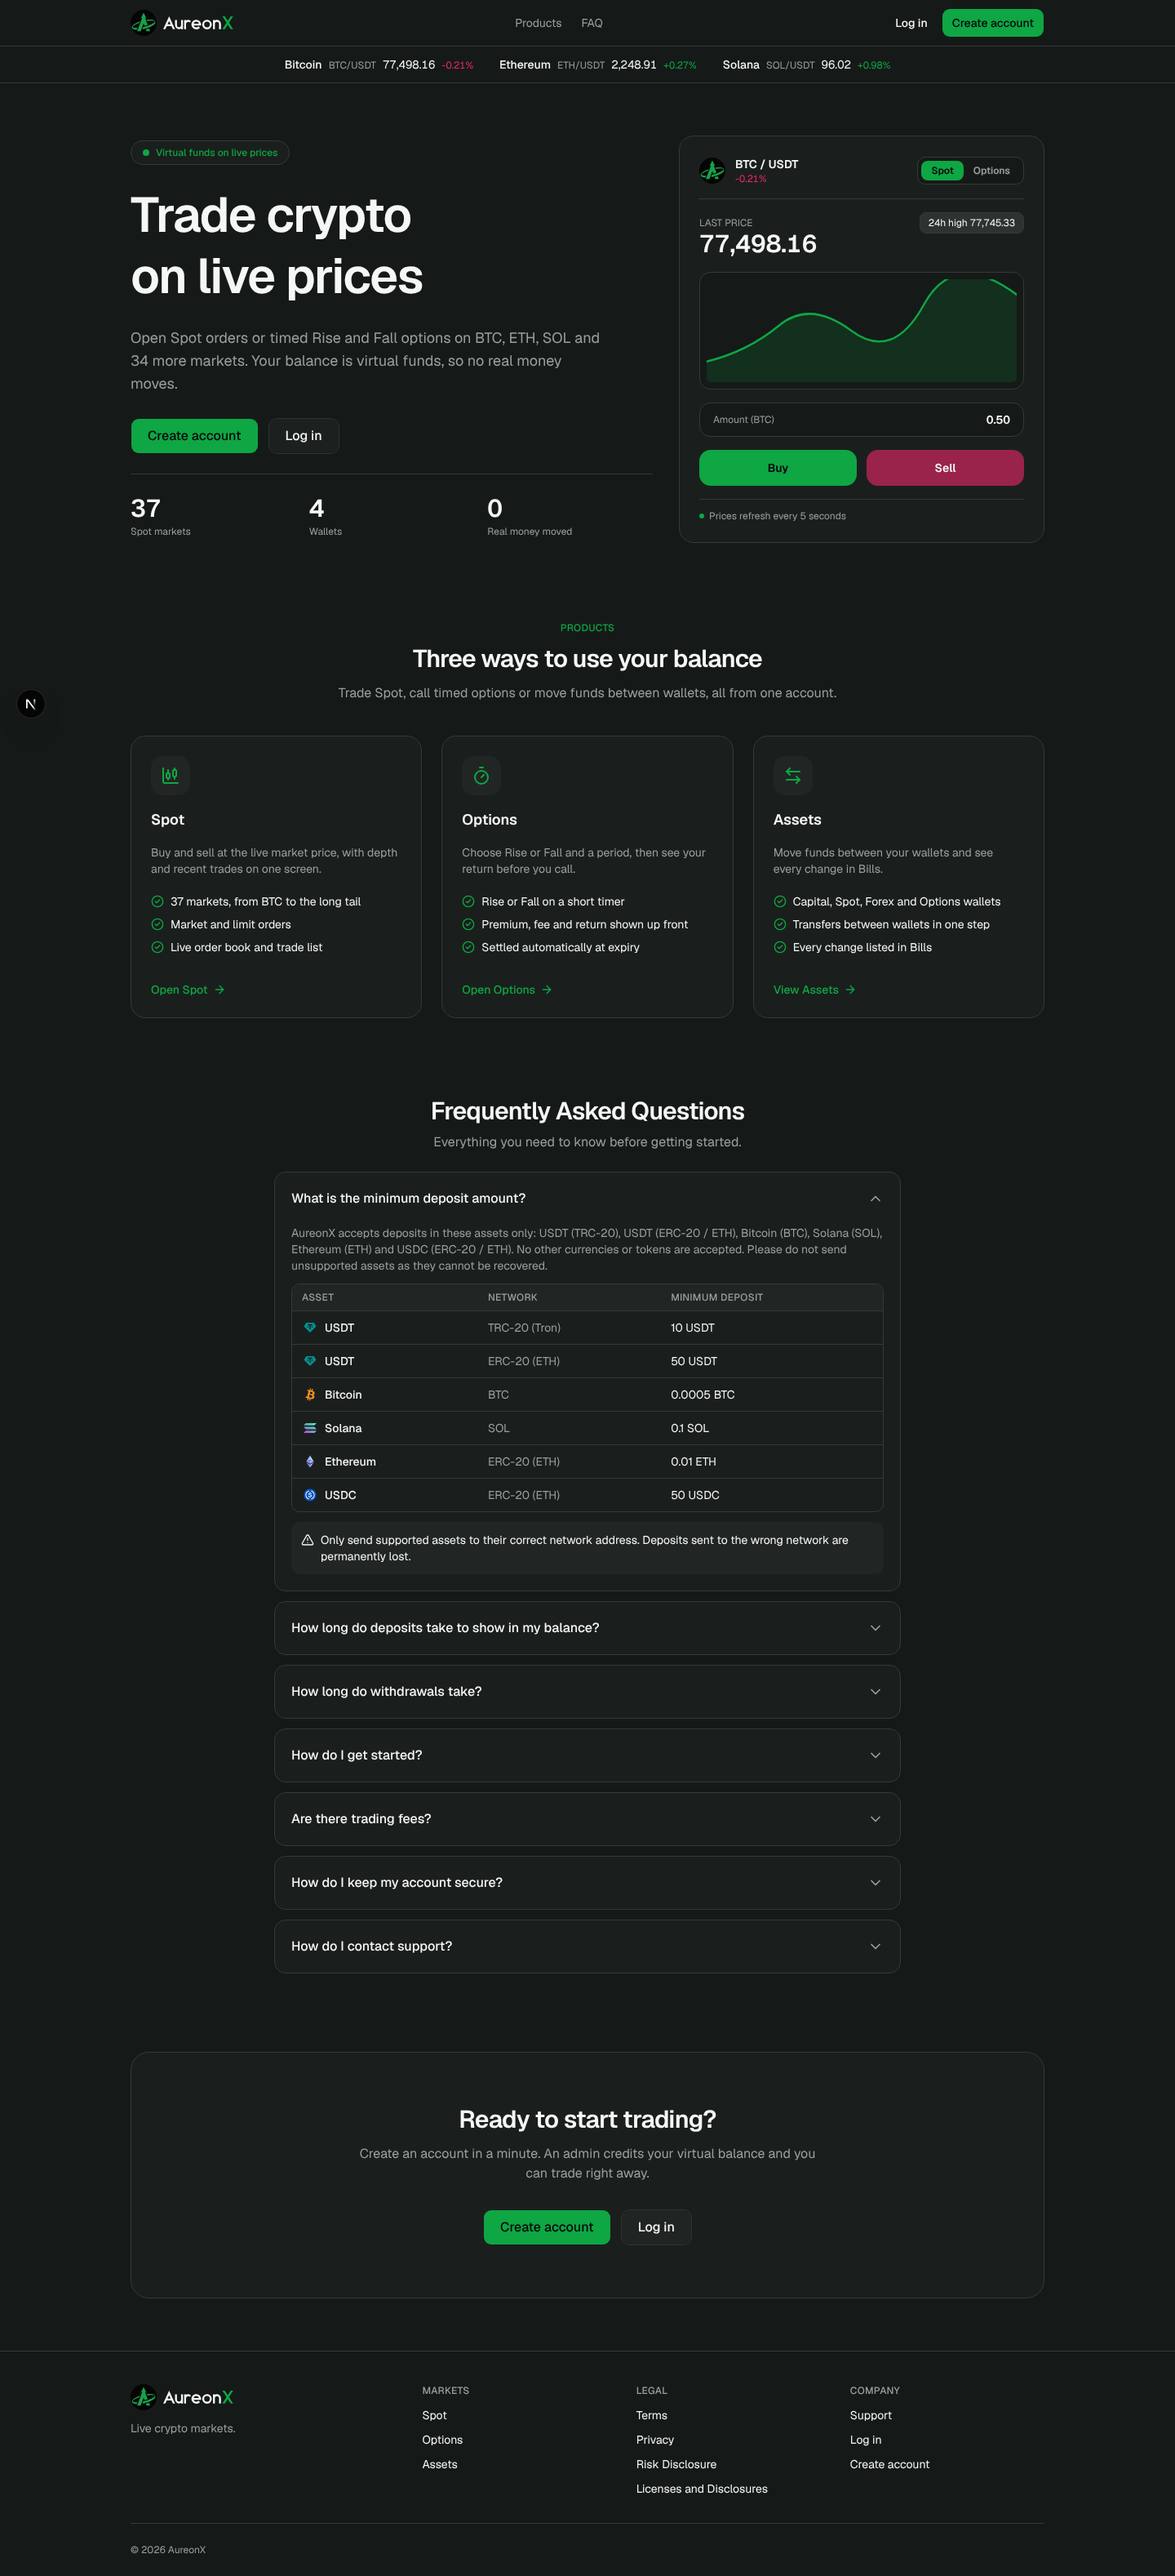
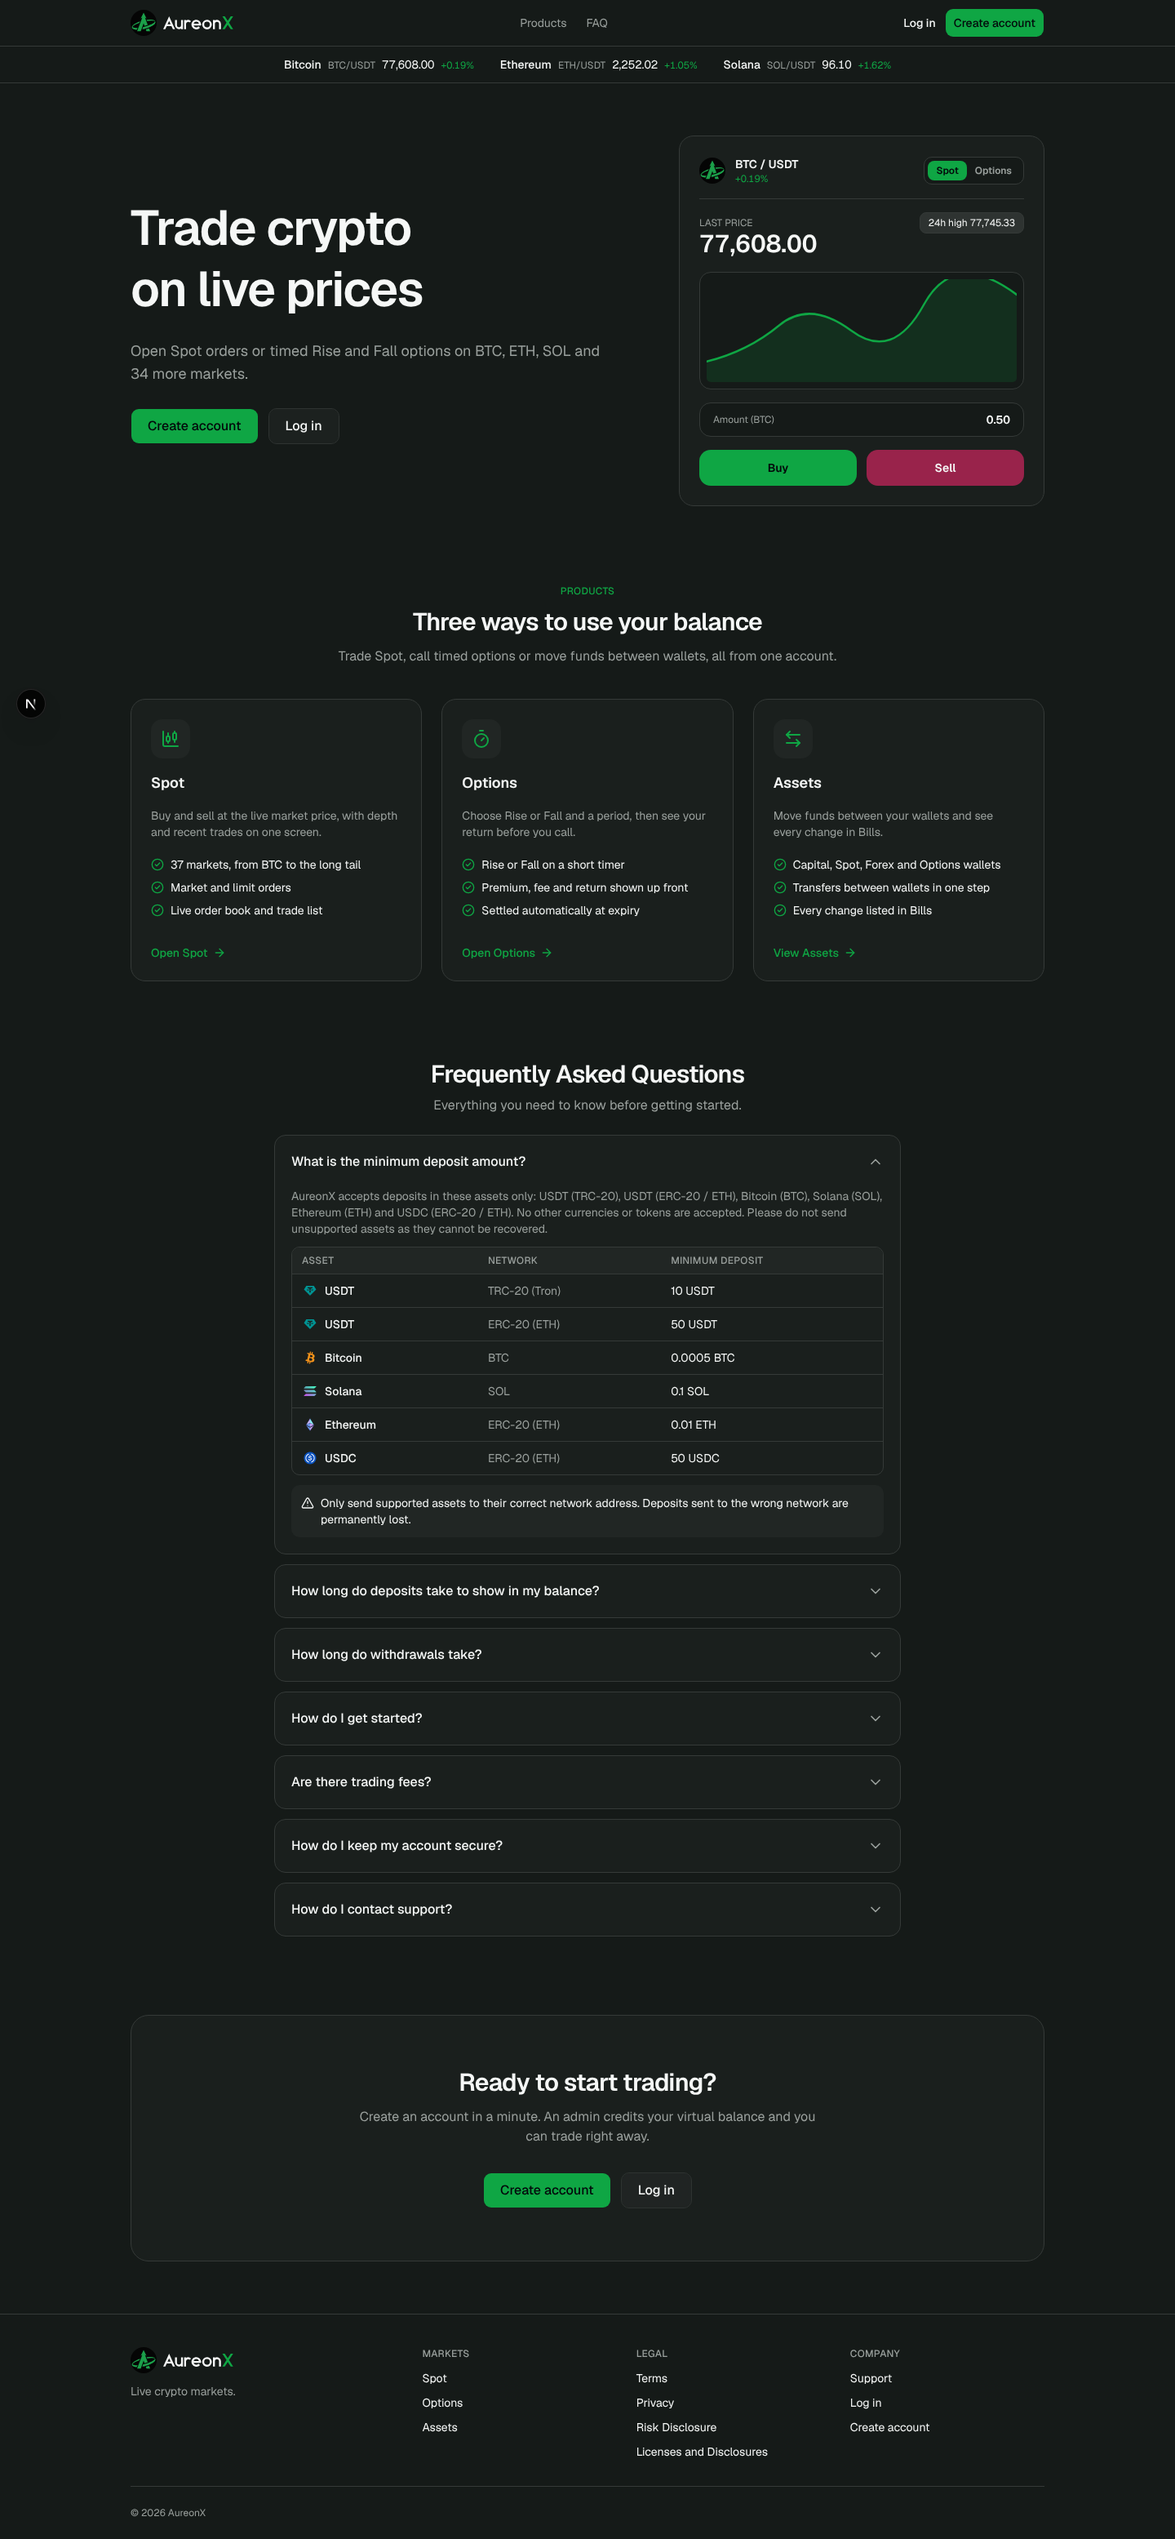
Trim the landing hero and the market table footnote, fit narrow screens
Claude-Session: https://claude.ai/code/session_01DkM5vfxF1t1ezHApxw2ZxV

diff --git a/src/components/landing/hero-preview.tsx b/src/components/landing/hero-preview.tsx
@@ -22,12 +22,12 @@ export function HeroPreview() {
   const change = live ? formatChange(live.ticker.changePct) : "--";
 
   return (
-    <div aria-hidden="true" className="rounded-2xl border bg-card p-5 md:p-6">
-      <div className="flex items-center justify-between border-b pb-4">
-        <div className="flex items-center gap-3">
+    <div aria-hidden="true" className="rounded-2xl border bg-card p-4 md:p-6">
+      <div className="flex items-center justify-between gap-2 border-b pb-4">
+        <div className="flex items-center gap-2 sm:gap-3">
           <BrandMark variant="small" idPrefix="preview" className="size-8" />
           <div>
-            <p className="text-sm font-semibold">BTC / USDT</p>
+            <p className="text-sm font-semibold whitespace-nowrap">BTC / USDT</p>
             <p
               className={cn(
                 "text-xs tabular-nums",
@@ -39,13 +39,13 @@ export function HeroPreview() {
           </div>
         </div>
         <div className="flex rounded-lg border bg-background p-1 text-xs font-semibold">
-          <span className="rounded-md bg-primary px-3 py-1 text-primary-foreground">{t("spot")}</span>
-          <span className="px-3 py-1 text-muted-foreground">{t("options")}</span>
+          <span className="rounded-md bg-primary px-2.5 py-1 text-primary-foreground">{t("spot")}</span>
+          <span className="px-2.5 py-1 text-muted-foreground">{t("options")}</span>
         </div>
       </div>
 
       <div className="mt-4 space-y-4">
-        <div className="flex items-baseline justify-between gap-3">
+        <div className="flex flex-wrap items-baseline justify-between gap-x-3 gap-y-2">
           <div>
             <p className="text-xs text-muted-foreground uppercase">{t("price")}</p>
             <p className="text-3xl font-semibold tabular-nums">
@@ -77,13 +77,6 @@ export function HeroPreview() {
           <span className="rounded-xl bg-primary py-3 text-center text-primary-foreground">{t("buy")}</span>
           <span className="rounded-xl bg-down/60 py-3 text-center">{t("sell")}</span>
         </div>
-      </div>
-
-      <div className="mt-4 flex items-center justify-between border-t pt-3 text-xs text-muted-foreground">
-        <span className="flex items-center gap-1.5">
-          <span className="size-1.5 rounded-full bg-primary" />
-          {t("feed")}
-        </span>
       </div>
     </div>
   );

diff --git a/src/app/(landing)/page.tsx b/src/app/(landing)/page.tsx
@@ -32,18 +32,13 @@ const FEATURES = [
 ] as const;
 
 const POINTS = ["one", "two", "three"] as const;
-const METRICS = ["markets", "wallets", "money"] as const;
 
 export default function LandingPage() {
   const t = useTranslations("Landing");
   return (
     <main className="mx-auto w-full max-w-6xl flex-1 space-y-16 px-4 py-10 md:space-y-24 md:py-16">
       <section className="grid items-center gap-10 lg:grid-cols-12 lg:gap-8">
-        <div className="space-y-6 text-center lg:col-span-7 lg:text-left">
-          <p className="inline-flex items-center gap-2 rounded-full border bg-card px-3.5 py-1.5 text-xs font-medium text-primary">
-            <span className="size-2 rounded-full bg-primary" />
-            {t("hero.badge")}
-          </p>
+        <div className="min-w-0 space-y-6 text-center lg:col-span-7 lg:text-left">
           <h1 className="text-4xl leading-tight font-semibold tracking-tight text-balance md:text-5xl xl:text-6xl">
             {t("hero.title")}
           </h1>
@@ -56,16 +51,8 @@ export default function LandingPage() {
               {t("hero.logIn")}
             </Link>
           </div>
-          <dl className="grid grid-cols-3 gap-4 border-t pt-6">
-            {METRICS.map((key) => (
-              <div key={key}>
-                <dt className="text-2xl font-semibold tabular-nums md:text-3xl">{t(`hero.metrics.${key}.value`)}</dt>
-                <dd className="mt-0.5 text-xs text-muted-foreground">{t(`hero.metrics.${key}.label`)}</dd>
-              </div>
-            ))}
-          </dl>
         </div>
-        <div className="lg:col-span-5">
+        <div className="mx-auto w-full min-w-0 max-w-md lg:col-span-5 lg:max-w-none">
           <HeroPreview />
         </div>
       </section>

diff --git a/src/components/landing/landing-nav.tsx b/src/components/landing/landing-nav.tsx
@@ -22,11 +22,11 @@ export function LandingNav() {
             {t("faq")}
           </a>
         </div>
-        <div className="flex items-center gap-1">
-          <Link href="/sign-in" className={cn(buttonVariants({ variant: "ghost" }), "h-9 px-3")}>
+        <div className="flex items-center">
+          <Link href="/sign-in" className={cn(buttonVariants({ variant: "ghost" }), "hidden h-9 px-2.5 min-[360px]:inline-flex")}>
             {t("logIn")}
           </Link>
-          <Link href="/sign-up" className={cn(buttonVariants(), "h-9 px-3")}>
+          <Link href="/sign-up" className={cn(buttonVariants(), "h-9 px-2.5")}>
             {t("createAccount")}
           </Link>
         </div>

diff --git a/src/components/market/market-table.tsx b/src/components/market/market-table.tsx
@@ -205,7 +205,6 @@ export function MarketTable({
           {t("seeAll")}
         </Link>
       ) : null}
-      <p className="text-center text-[11px] text-muted-foreground">{t("footnote")}</p>
     </section>
   );
 }

diff --git a/CLAUDE.md b/CLAUDE.md
@@ -22,7 +22,7 @@ This file is the single source of truth. It describes **what has shipped**, and 
   - `server.ts`: cookie-bound server client, `server-only`.
   - `service.ts`: secret-key client, `server-only`, never imported by client code.
 - Pages (static prerenders except `/admin/*`, which the admin layout renders per request; user data loads in client components):
-  - `(landing)` group (slice 9): `/` is the public landing page, with no tab bar and no top bar, and the default not-found. Layout, in order: nav (`landing-nav.tsx`: mark, wordmark, Products and FAQ anchors from `md:`, Log in, Create account), a live price strip (BTC, ETH, SOL from the shared market store, `--` while loading, missing or delayed), hero (`page.tsx`: badge, the one h1, CTAs, a three-figure strip, and `hero-preview.tsx`, a decorative Spot ticket whose price, 24 h change and 24 h high come from the same store and whose chart, amount and buttons are static), `#products` (three cards: Spot, Options, Assets, each with three points and a link), the FAQ (`#faq`), `cta-banner.tsx`, footer (Markets links to `/spot`, `/options`, `/assets`). Copy is in `messages/en.json` under `Landing`; the hero figures (37 markets, 4 wallets) and the Spot card's 37 are written in that copy, so update them when the enabled market count changes. The brand mark and wordmark are inlined SVG components in `src/components/brand/`. The page is static and never varies by user.
+  - `(landing)` group (slice 9): `/` is the public landing page, with no tab bar and no top bar, and the default not-found. Layout, in order: nav (`landing-nav.tsx`: mark, wordmark, Products and FAQ anchors from `md:`, Log in, Create account), a live price strip (BTC, ETH, SOL from the shared market store, `--` while loading, missing or delayed), hero (`page.tsx`: the one h1, a one-line subtitle, CTAs, and `hero-preview.tsx`, a decorative Spot ticket whose price, 24 h change and 24 h high come from the same store and whose chart, amount and buttons are static), `#products` (three cards: Spot, Options, Assets, each with three points and a link), the FAQ (`#faq`), `cta-banner.tsx`, footer (Markets links to `/spot`, `/options`, `/assets`). Copy is in `messages/en.json` under `Landing`; the subtitle's "34 more markets" and the Spot card's "37 markets" are written in that copy, so update them when the enabled market count changes. The brand mark and wordmark are inlined SVG components in `src/components/brand/`. The page is static and never varies by user.
   - The landing FAQ is `src/components/landing/faq.tsx` with its items in `faq-items.tsx` (copy under `Faq` in `messages/en.json`); its deposit table reads `DEPOSIT_MINIMUMS` in `src/lib/coins.ts` (owner-supplied minimums, display only; the Deposit page does not use them). Item 3 gives withdrawal timings supplied by the owner, not taken from code, and must be updated in `messages/en.json` when they change.
   - Public legal pages (static, in the `(legal)` route group, outside the proxy matcher, no metadata exports): `/terms`, `/privacy`, `/risk-disclosure`, `/licenses-and-disclosures`. They render `LegalDocument` (`src/components/legal/legal-document.tsx`) from the typed content in `src/lib/legal/` (`terms.ts`, `privacy.ts`, `risk-disclosure.ts`, `licenses-and-disclosures.ts`); the legal wording is owner-supplied, never edit it. The landing footer has a Legal column linking them and the account menu legal entry goes to `/terms`; `/legal` still exists but nothing links to it.
   - Cookie consent: `CookieConsent` (`src/components/legal/cookie-consent.tsx`) is mounted once in the root layout, inside `NextIntlClientProvider`. The choice is stored in `localStorage` key `aureonx-cookie-consent` as `{choice: "accept" | "decline", at}`; `getCookieConsent()` reads it. **Nothing is gated on it today** (there is no analytics or other optional script; Sentry is errors only). A future optional script must load only when `getCookieConsent() === "accept"`, **except the TradingView chart widget, which is treated as essential and loads without consent** (docs/decisions.md).

diff --git a/docs/ui-map.md b/docs/ui-map.md
@@ -636,7 +636,7 @@ Assumptions:
 - **Market tab:** search matches the display symbol, the base asset, the id and `BASE/QUOTE`, case-insensitively, inside whichever tab is active. A star on each row adds or removes a favorite at once and undoes itself if the save fails. The top bar search form sends `/market?q=text`; the page field follows the URL when it changes and can then be edited freely.
 - **Coin icons:** a circle with the first two letters of the base asset. No third-party logos are downloaded or bundled.
 - **Row tap:** saves the symbol id under `aureonx.lastMarket` in `localStorage` (inside try/catch) and does not navigate. The Trade tab opens `/spot`, which is "Coming soon" until slice 4 (O24).
-- **States:** "Loading markets", an amber "Prices are temporarily unavailable. Retrying." when every provider has failed and nothing was loaded, and a one-line footnote that prices refresh about every 5 seconds.
+- **States:** "Loading markets", an amber "Prices are temporarily unavailable. Retrying." when every provider has failed and nothing was loaded.
 - **Layout:** built at 390 px. Prices use 13 px tabular numbers, and the symbol column keeps a minimum width so `NEARUSD` does not truncate next to the star. Scrolling pages keep the tab bar plus safe-area padding from the group layout.
 
 ### 4.12 Slice 4 screens as shipped (Spot terminal)
